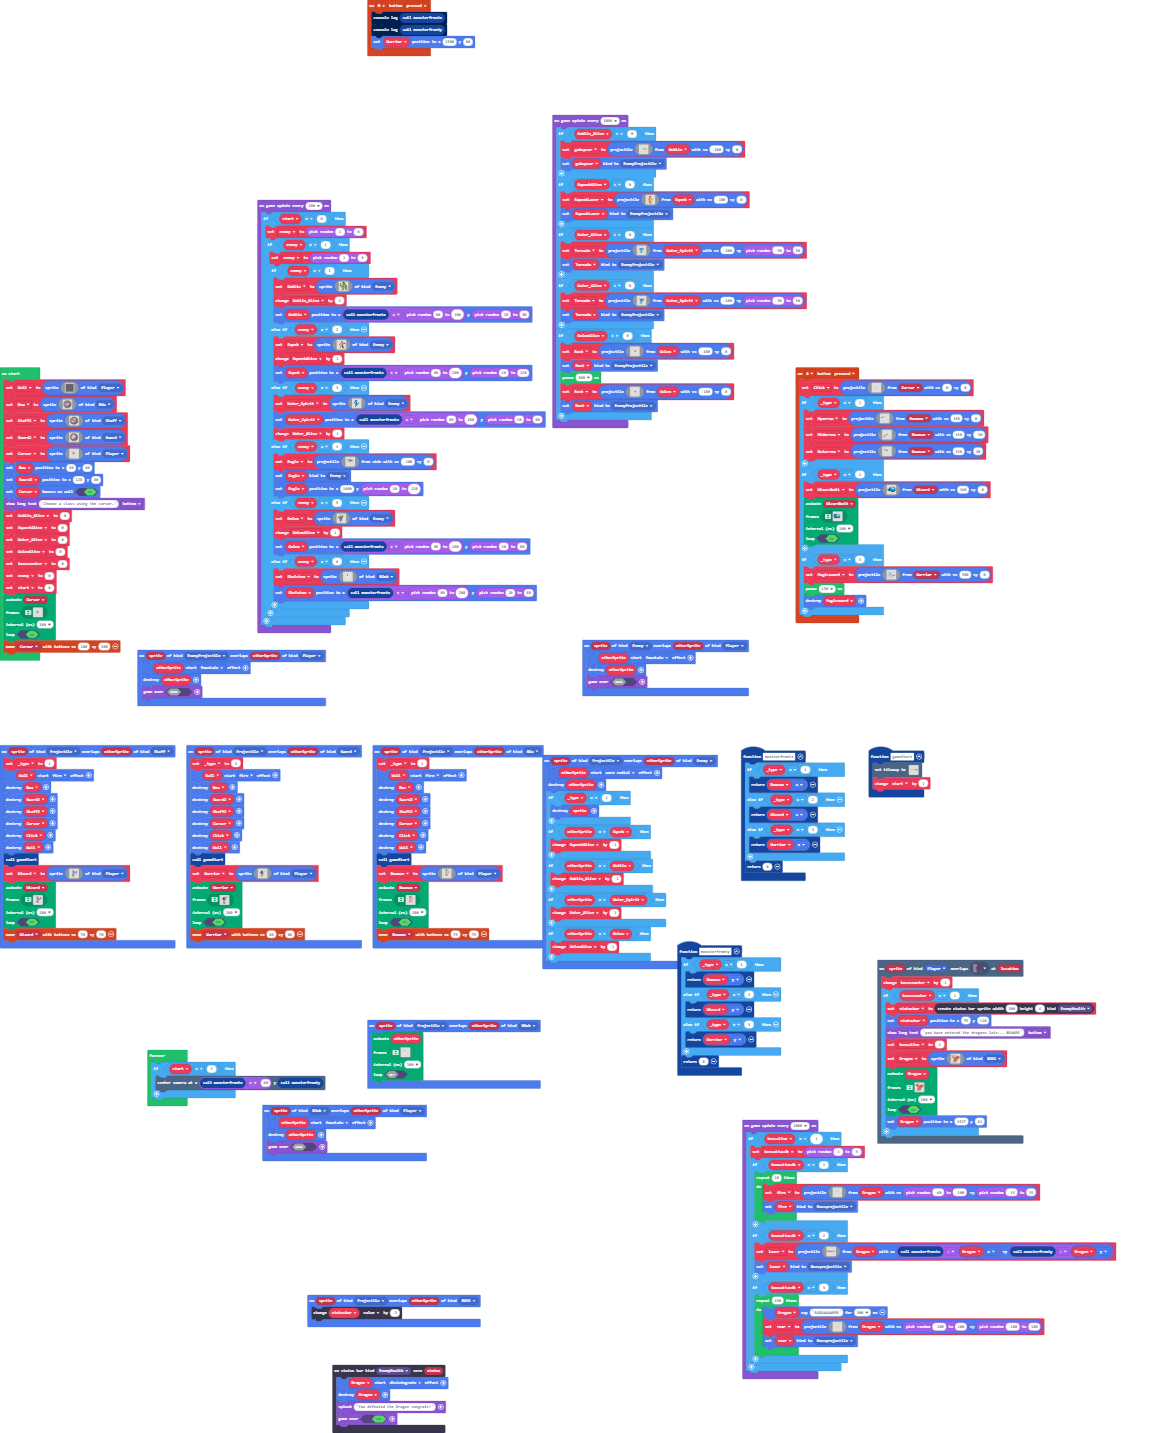
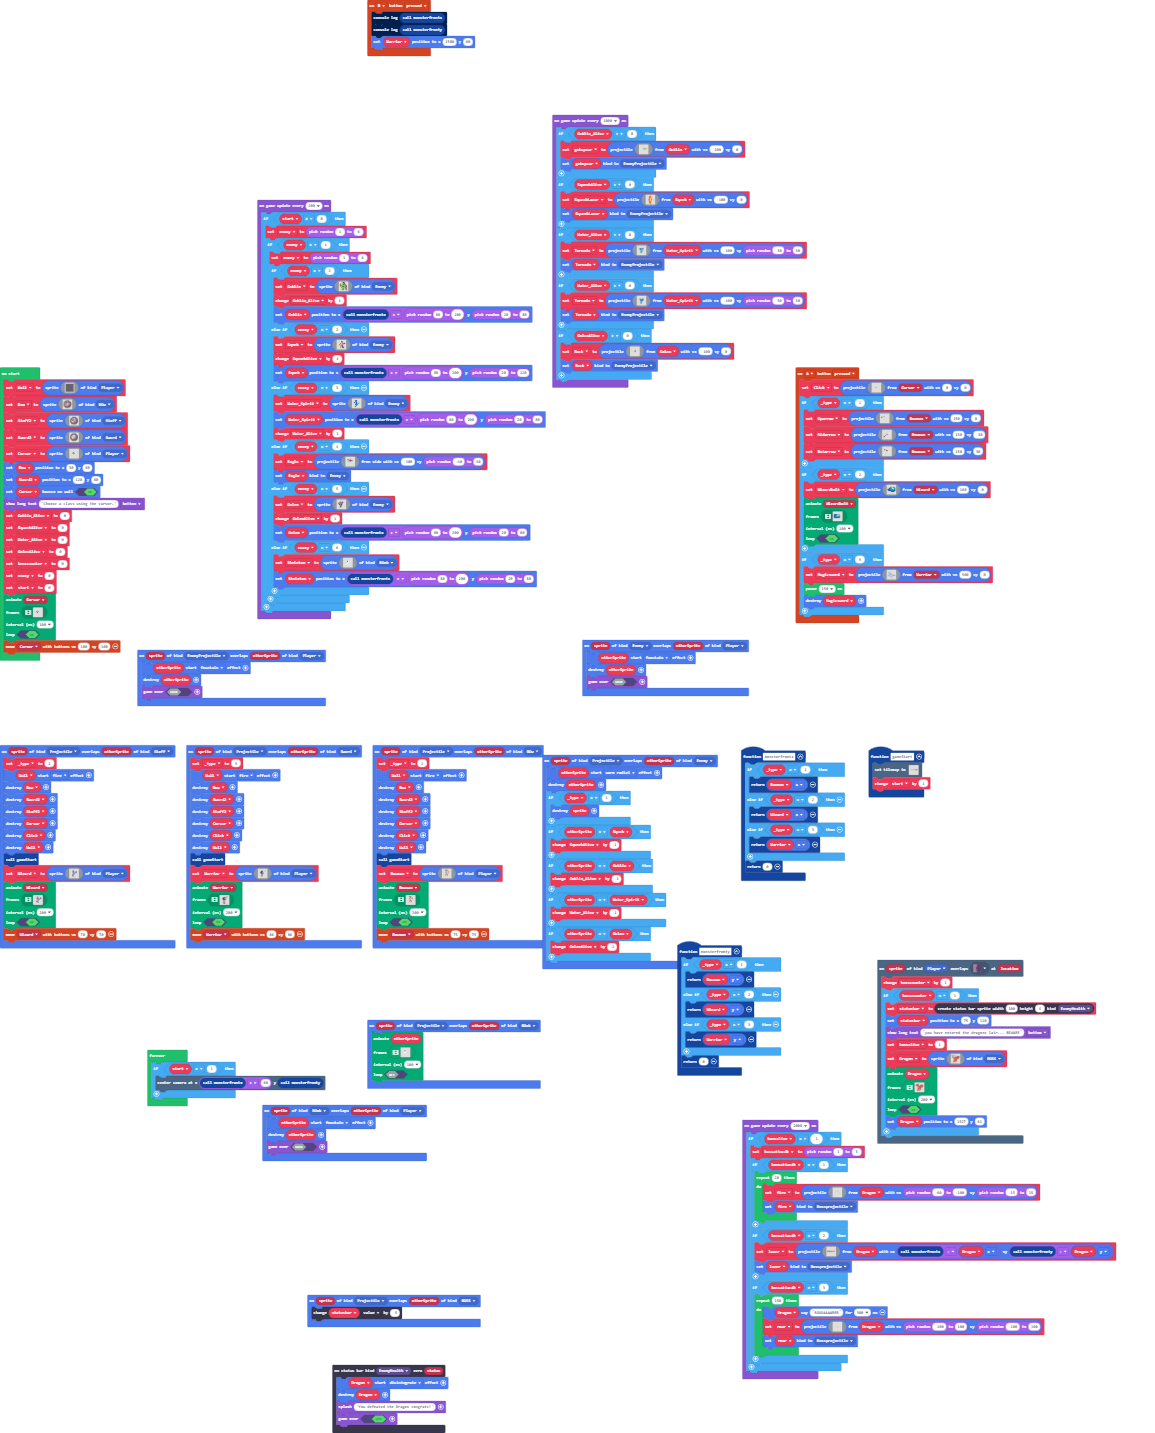
Update main.blocks, main.ts

Changed region(s): [[0.2182, 0.307, 0.4675, 0.4606], [0.4675, 0.2456, 0.6234, 0.307]]

diff --git a/main.ts b/main.ts
@@ -1529,11 +1529,6 @@ function gameStart () {
     tiles.setTilemap(tilemap`level1`)
     start += 1
 }
-sprites.onOverlap(SpriteKind.Bossprojectile, SpriteKind.Player, function (sprite, otherSprite) {
-    otherSprite.startEffect(effects.fountain)
-    otherSprite.destroy()
-    game.over(false)
-})
 sprites.onOverlap(SpriteKind.Projectile, SpriteKind.Sword, function (sprite, otherSprite) {
     _type = 3
     Wall.startEffect(effects.fire)
@@ -2744,40 +2739,6 @@ game.onUpdateInterval(1000, function () {
             ................
             `, Golem, -100, 0)
         Rock.setKind(SpriteKind.EnemyProjectile)
-        pause(500)
-        Rock = sprites.createProjectileFromSprite(img`
-            ................
-            ................
-            ................
-            ................
-            ................
-            ................
-            ................
-            ................
-            ................
-            ................
-            ........dd......
-            ......11ddd.....
-            ......1ddeee....
-            .....dddeeee....
-            ......eeeeee....
-            ......eeeeee....
-            .......eee......
-            ................
-            ................
-            ................
-            ................
-            ................
-            ................
-            ................
-            ................
-            ................
-            ................
-            ................
-            ................
-            ................
-            `, Golem, -100, 0)
-        Rock.setKind(SpriteKind.EnemyProjectile)
     }
 })
 forever(function () {
@@ -2885,9 +2846,8 @@ game.onUpdateInterval(200, function () {
                     ..............................
                     ..............................
                     ..............................
-                    `, -100, 0)
+                    `, -100, randint(-40, 40))
                 Eagle.setKind(SpriteKind.Enemy)
-                Eagle.setPosition(1600, randint(10, 120))
             } else if (enemy == 5) {
                 Golem = sprites.create(img`
                     ..................................................
